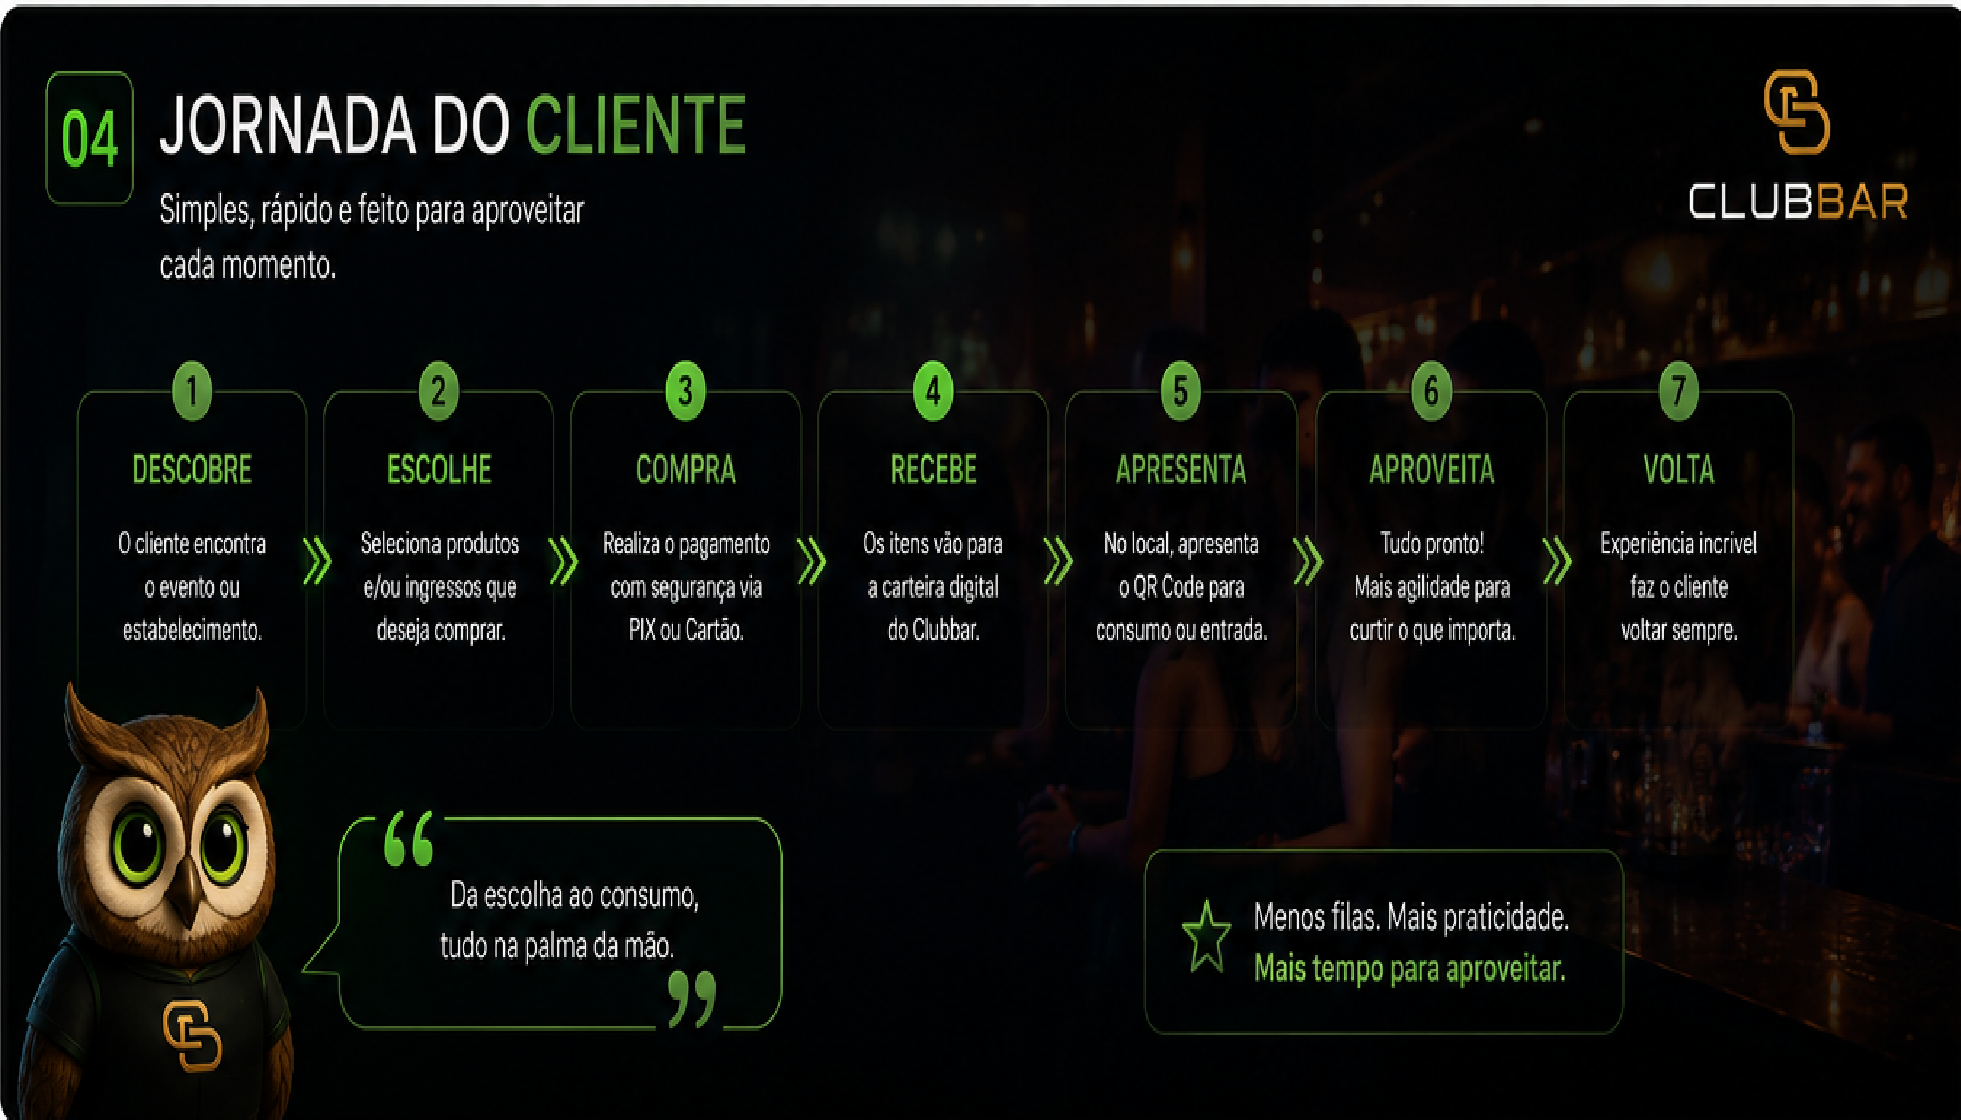
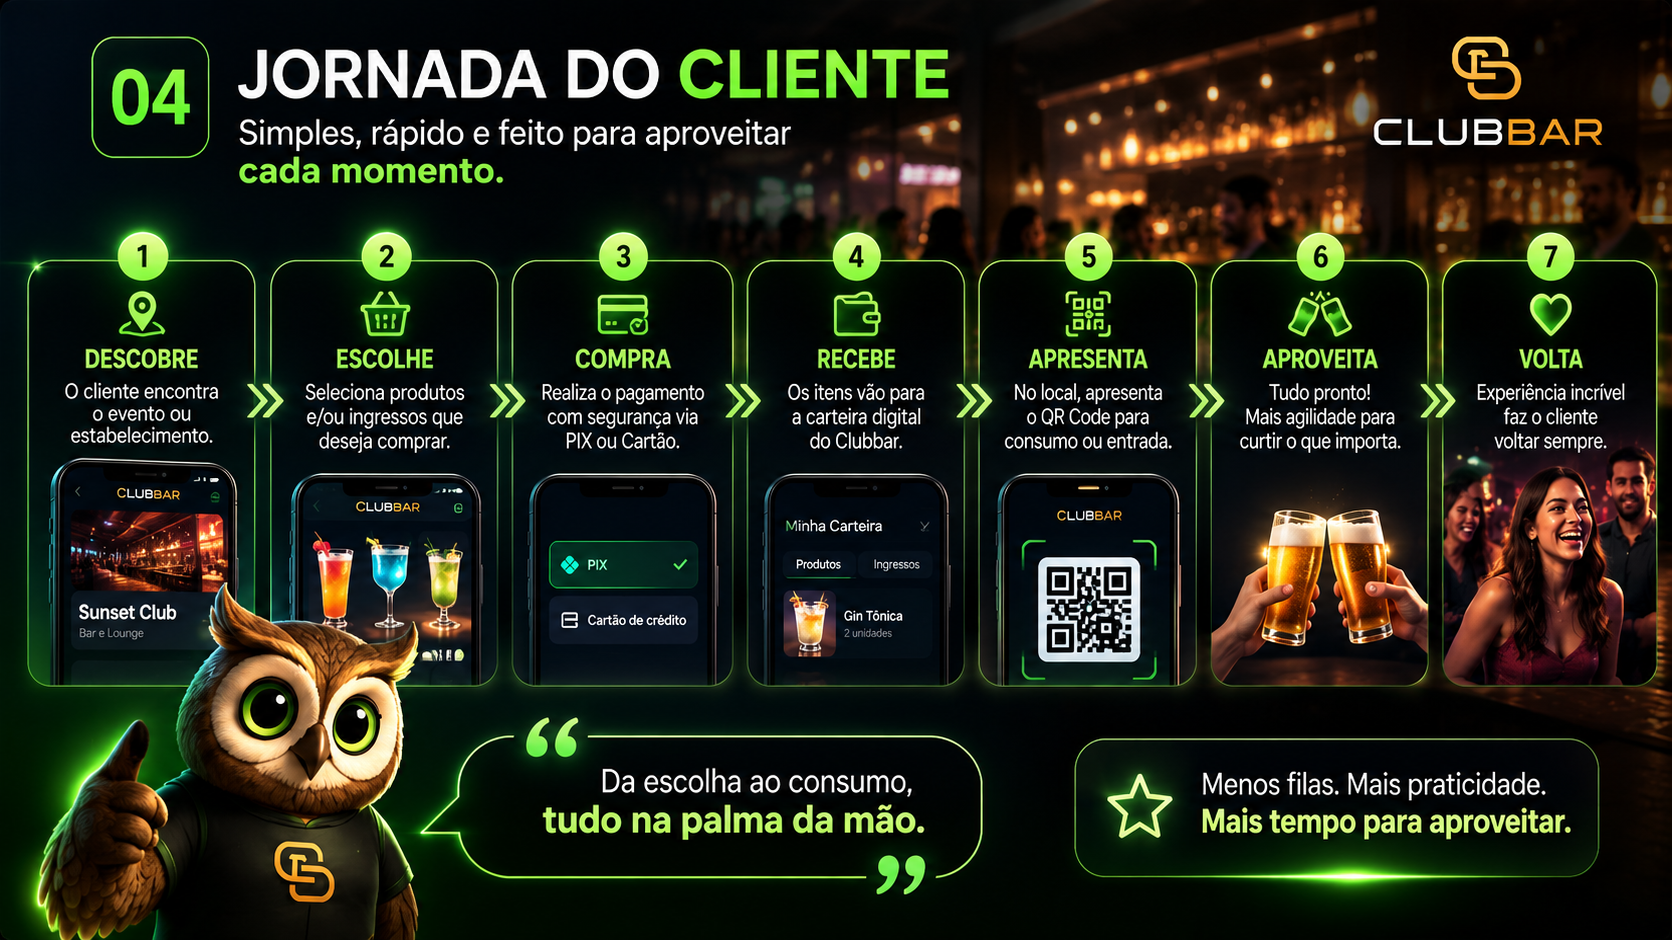
novos slides da apresentacao partner

diff --git a/partner/index.html b/partner/index.html
@@ -14,6 +14,8 @@
       <section class="slide"><img src="assets/02-historia.png" alt="História do Clubbar" /></section>
       <section class="slide"><img src="assets/03-solucao.png" alt="A solução e como funciona" /></section>
       <section class="slide"><img src="assets/04-jornada-beneficios.png" alt="Jornada do cliente e benefícios" /></section>
+      <section class="slide"><img src="assets/05-beneficio-parceiro.png" alt="Benefícios para o parceiro" /></section>
+      <section class="slide"><img src="assets/06-beneficio-cliente.png" alt="Benefícios para o cliente final" /></section>
 
       <section class="slide final-slide" aria-label="Contato">
         <div class="final-card">
